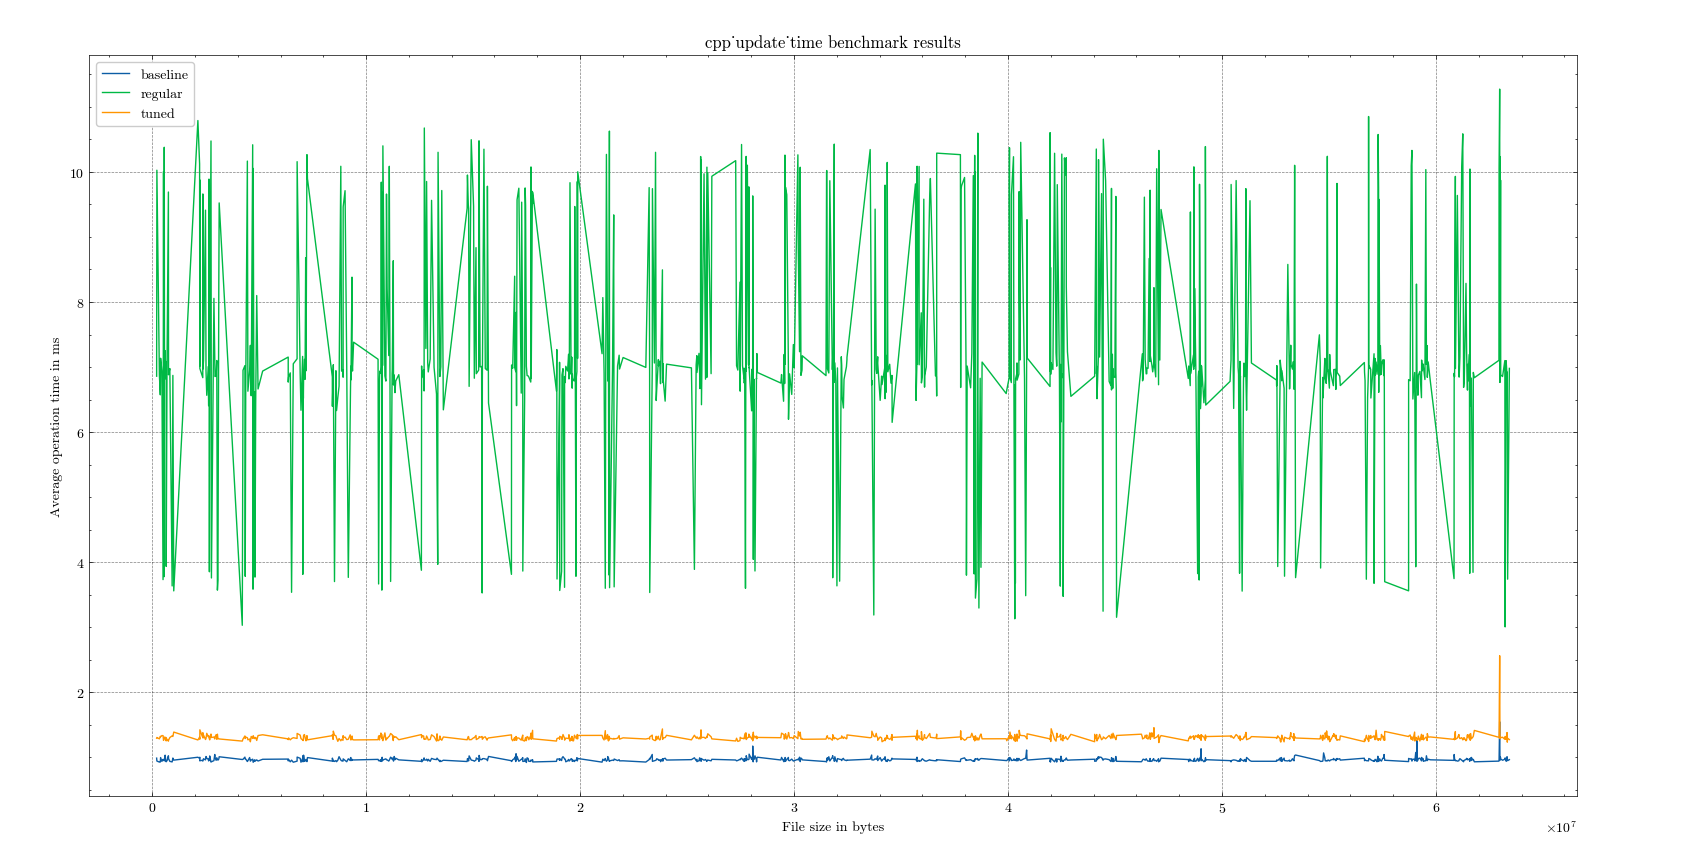
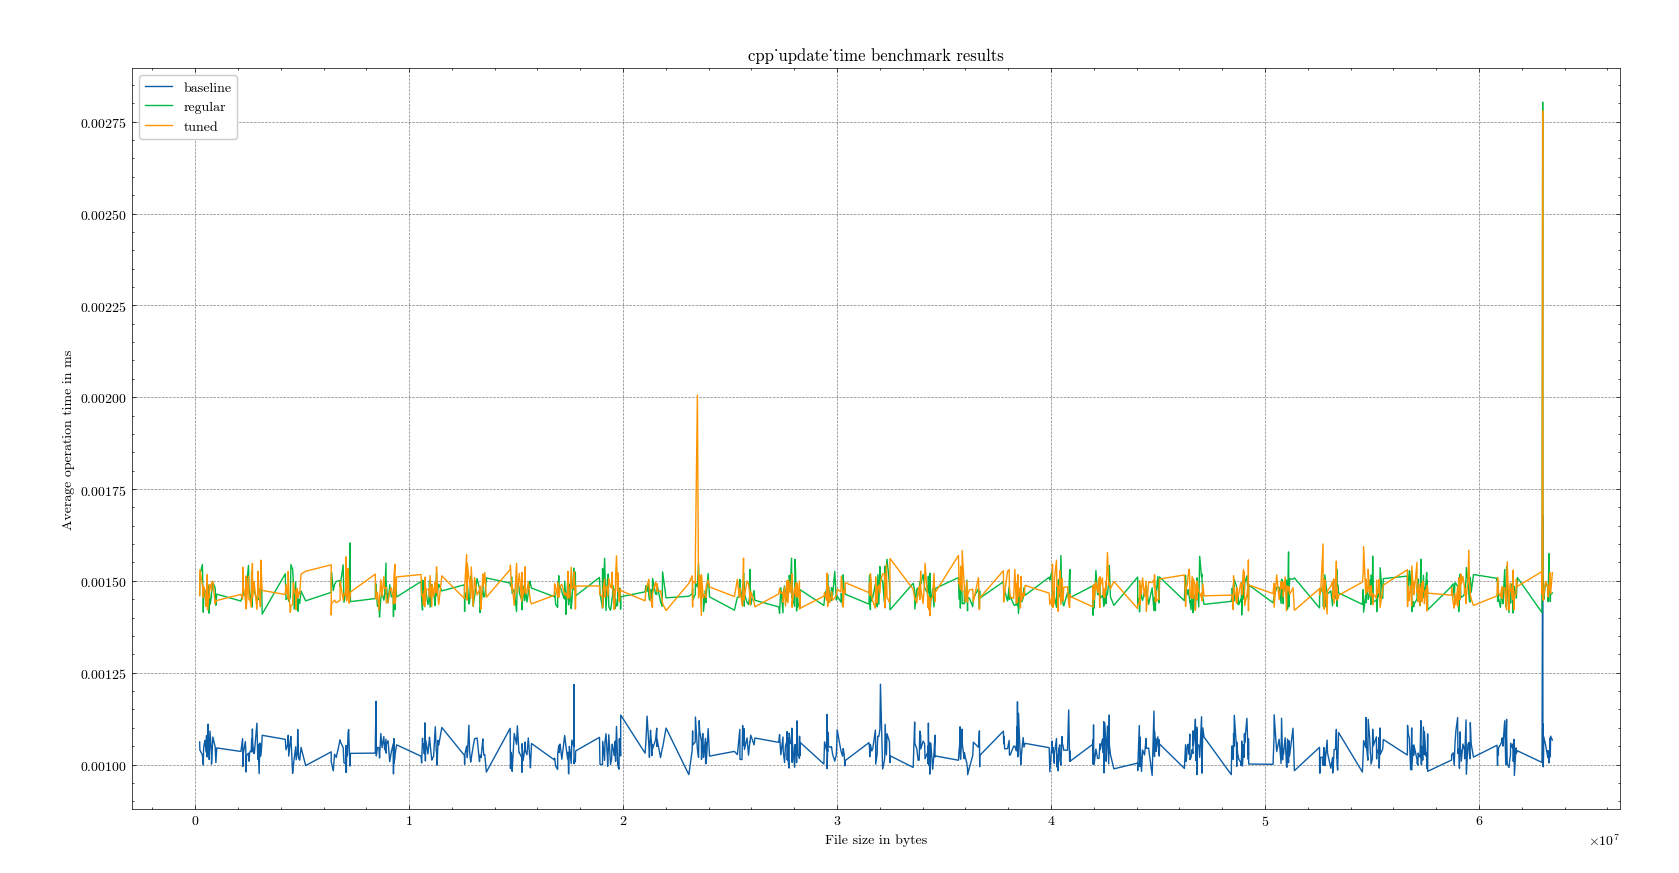
Add plots obtained with C++

diff --git a/benchmark/python/run_cpp.py b/benchmark/python/run_cpp.py
@@ -12,7 +12,7 @@ from create_test_setup import produce_dir
 from misc.copy_dir import copy_dir
 from misc.utils import system
 from plot_comparison import plot_results
-from perform_benchmarks import benchmark_avg
+from perform_benchmarks import benchmark_walk_tree_avg
 from setup_file_batches import setup_batch
 from pathlib import Path
 
@@ -65,7 +65,7 @@ def unmount_filesystems(ovlfs_reg_dir, ovlfs_tuned_dir):
 
 def run_benchmark(target_dir, runs_num, benchmark_func):
     Logger.log(LogLevel.INFO, f'Running benchmark on {target_dir} for {benchmark_func.__name__}')
-    return benchmark_avg(target_dir, runs_num, benchmark_func)
+    return benchmark_walk_tree_avg(target_dir, runs_num, benchmark_func)
 
 def create_output_dirs(output_path):
     os.makedirs(output_path, exist_ok=True)
@@ -153,9 +153,9 @@ def main():
     benchmark_functions = [cpp_update_time]
 
     for func in benchmark_functions:
-        func(base_dir, Path(output_path) / func.__name__ / BASELINE_RESULT_FILE_NAME)
-        func(Path(ovlfs_reg_dir) / OVLFS_MERGE_DIR, Path(output_path) / func.__name__/ REGULAR_OVLFS_RESULT_FILE_NAME)
-        func(Path(ovlfs_tuned_dir) / OVLFS_MERGE_DIR, Path(output_path) / func.__name__ / TUNED_OVLFS_RESULT_FILE_NAME)
+        func(base_dir, Path(output_path) / func.__name__ / BASELINE_RESULT_FILE_NAME, runs_num=runs_num)
+        func(Path(ovlfs_reg_dir) / OVLFS_MERGE_DIR, Path(output_path) / func.__name__/ REGULAR_OVLFS_RESULT_FILE_NAME, runs_num=runs_num)
+        func(Path(ovlfs_tuned_dir) / OVLFS_MERGE_DIR, Path(output_path) / func.__name__ / TUNED_OVLFS_RESULT_FILE_NAME, runs_num=runs_num)
     plot_results(output_path)
     
     if unmount_ovlfs:

diff --git a/benchmark/python/ops_to_benchmark.py b/benchmark/python/ops_to_benchmark.py
@@ -20,11 +20,11 @@ def read(file):
     return (end_time - start_time) * 1000
 
 
-def cpp_chmod(input_path, output_path):
-    system(f'../cpp_benchmark_ops/benchmark_chmod 1000 {input_path} {output_path}')
+def cpp_chmod(input_path, output_path, runs_num):
+    system(f'../cpp/bin/benchmark {runs_num} {input_path} {output_path}')
 
-def cpp_update_time(input_path, output_path):
-    system(f'../cpp_benchmark_ops/bin/benchmark 1000 {input_path} {output_path}')
+def cpp_update_time(input_path, output_path, runs_num):
+    system(f'../cpp/bin/benchmark {runs_num} {input_path} {output_path}')
 
 def touch_pathlib(file):
     pathlib_converted_file = Path(file)
@@ -45,8 +45,6 @@ def rename_directory(file):
     return (end_time - start_time) * 1000
 
 def move_directory(file):
-    # if not os.path.isdir(file):
-    #     return 0.0
     start_time = perf_counter()
     shutil.move(src=file, dst=f'{file}_renamed')
     end_time = perf_counter()

diff --git a/benchmark/cpp/benchmark_ops.cpp b/benchmark/cpp/benchmark_ops.cpp
@@ -8,7 +8,7 @@
 #include <fcntl.h>
 #include "scope_exit.h"
 
-using benchmark_map = std::map<uintmax_t, uint64_t>;
+using benchmark_map = std::map<uintmax_t, float>;
 
 void updateAccessTime(benchmark_map& benchmarkingResults, const std::filesystem::path& targetDir)
 {
@@ -106,7 +106,12 @@ int main(int argc, char** argv)
     benchmark_map benchmarkingResults;
     for (int i = 0; i < numberOfRuns; ++i)
     {
-        updateAccessTime(benchmarkingResults, inputDir);
+        changeMode(benchmarkingResults, inputDir);
+    }
+
+    for (auto& pair : benchmarkingResults)
+    {
+        pair.second /= numberOfRuns;
     }
     std::ofstream output(outputFile);
     writeOutput(output, benchmarkingResults);

diff --git a/benchmark/python/misc/cleanup_dir.py b/benchmark/python/misc/cleanup_dir.py
@@ -3,8 +3,8 @@
 import os
 import shutil
 import sys
-from .log import *
-from .utils import list_absolute_file_paths
+from log import *
+from utils import list_absolute_file_paths
  
 def cleanup_dir(target_dir):
     if not os.path.isdir(target_dir):
